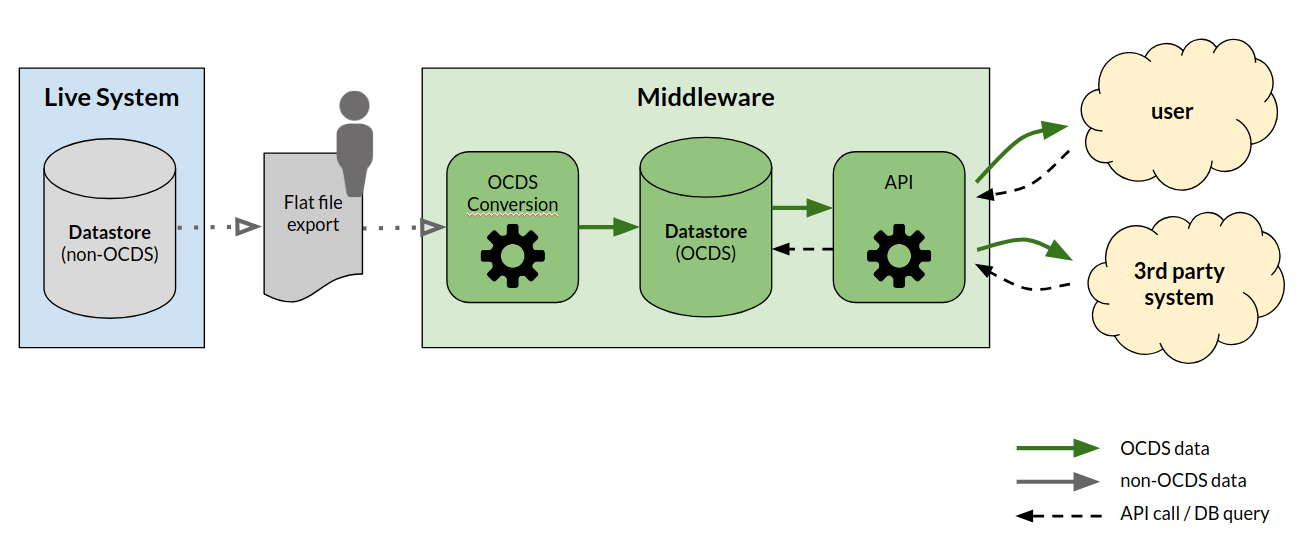
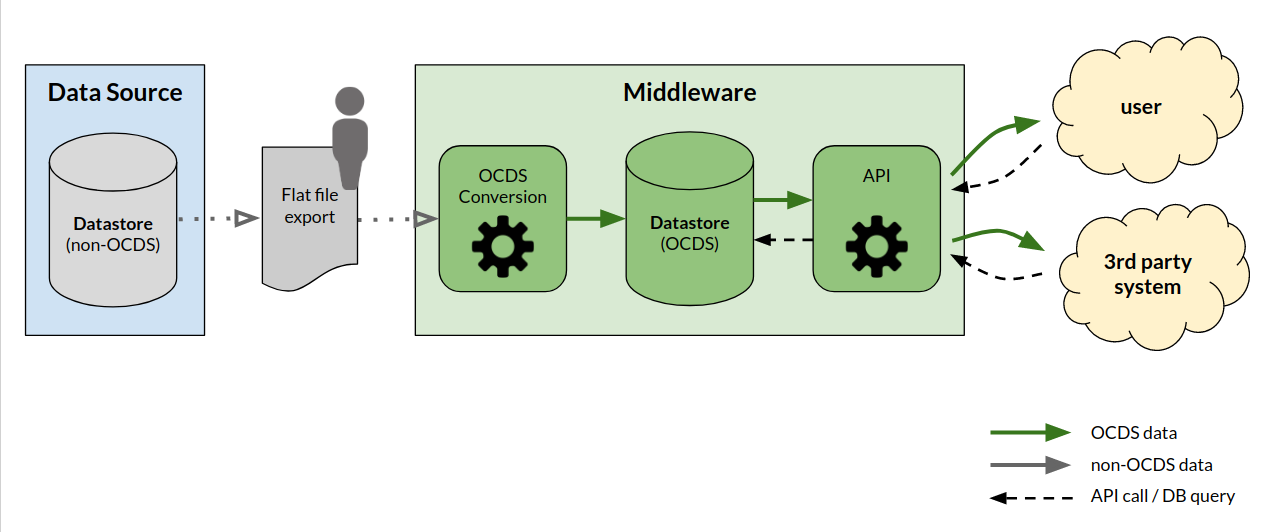
Replacing 'live system' with 'data source' #1139

diff --git a/docs/guidance/build/system_architectures.md b/docs/guidance/build/system_architectures.md
@@ -4,9 +4,9 @@ The publication of OCDS data involves the creation of a conversion process. Like
 
 This process needs an adequate architecture to support it. Its design depends on several factors:
 
-* Whether is possible to extend existing systems, or a new system will be built,
-* The number and nature of the live systems,
-* The technical resources available to the publisher, like storage and processing capabilities. This includes the availability of technical personnel to maintain systems and modules.
+* Whether is possible to extend existing sources, or a new sources will be built,
+* The number and nature of the data sources,
+* The technical resources available to the publisher, like storage and processing capabilities. This includes the availability of technical personnel to maintain sources and modules.
 
 Other considerations that affect the design are:
 
@@ -16,9 +16,9 @@ Other considerations that affect the design are:
 
 This guidance describes some design approaches with their advantages and disadvantages. This is not an exhaustive list, but it can be used to inform the design of the publication system.
 
-## On-demand transformation from live systems
+## On-demand transformation from data sources
 
-In this scenario, each source system converts data in OCDS format on demand. Data is not stored but gets converted each time a user or third party invokes the conversion process. This is the easiest path when a single live system manages all contracting processes. But it involves modifications to the system to add an OCDS conversion module.
+In this scenario, each data source converts data in OCDS format on demand. Data is not stored but gets converted each time a user or third party invokes the conversion process. This is the easiest path when a single source manages all contracting processes. But it involves modifications to the data source to add an OCDS conversion module.
 
 An API performs data transformation on the fly each time it receives a request.
 
@@ -30,14 +30,14 @@ This approach does not need extra storage space. But it might not be possible to
 
 The [easy releases guidance](easy_releases) explains how to achieve a conformant OCDS implementation where it is not possible to provide a full change history.
 
-Bulk downloads can be provided as part of the API. Live queries can stress the live systems if they need to scan large portions of data.
+Bulk downloads can be provided as part of the API. Live queries can stress the data sources if they need to scan large portions of data.
 
 ## Separate OCDS datastore
 
 In the scenarios that follow, a middleware component converts and stores the data in OCDS format. This has some advantages:
 
-* It is possible to merge and centralize data from more than one system in a single datastore.
-* It can relieve live systems from expensive queries.
+* It is possible to merge and centralize data from more than one source in a single datastore.
+* It can relieve data sources from expensive queries.
 * It can enable the generation of the change history for each contracting process.
 
 On the other hand, there is a cost of maintaining a separate datastore. In these scenarios, we assume an API provides access to OCDS data.
@@ -49,33 +49,33 @@ The [releases and records](../../getting_started/releases_and_records) guidance 
 
 ### Pull and convert
 
-In this scenario an automated process pulls data from live systems to the middleware system. The middleware performs the conversion to OCDS and maintains a datastore in OCDS format.
+In this scenario an automated process pulls data from data sources to the middleware system. The middleware performs the conversion to OCDS and maintains a datastore in OCDS format.
 
 ![Pull and Convert](../../_static/png/pullAndConvert.png)
 
-The key benefit of this approach is that the middleware system can store the change history. This is especially good when source systems do not maintain historic data.
+The key benefit of this approach is that the middleware system can store the change history. This is especially good when data sources do not maintain historic data.
 
-This approach might involve some changes to live systems to allow the middleware to pull data. The middleware system merges and centralizes data in a single place.
+This approach might involve some changes to data sources to allow the middleware to pull data. The middleware system merges and centralizes data in a single place.
 
-To add more source systems, the OCDS conversion module needs to be updated to pull data from the new system(s).
+To add more data sources, the OCDS conversion module needs to be updated to pull data from the new source(s).
 
 An important decision in the implementation is the frequency to pull data. If the frequency is low, there is a risk of losing the detail of individual changes.
 
-An alternative to the pull mechanism is to use a push mechanism in each source system. Specific events or changes to the data would trigger a data push to the middleware. This approach can mitigate the risk of losing individual changes. But this might involve bigger modifications to the source system(s).
+An alternative to the pull mechanism is to use a push mechanism in each data source. Specific events or changes to the data would trigger a data push to the middleware. This approach can mitigate the risk of losing individual changes. But this might involve bigger modifications to the data source(s).
 
 European Dynamics developed an e-procurement system with a similar approach for OCDS output. The system was built for the Zambian Public Procurement Agency.
 
 ### Convert and push
 
-This scenario is a combination of the two previous scenarios. Live systems perform the conversion of data to OCDS format. They push converted data to a middleware, which maintains an OCDS format datastore. An API in the middleware system serves the OCDS data.
+This scenario is a combination of the two previous scenarios. Data sources perform the conversion of data to OCDS format. They push converted data to a middleware, which maintains an OCDS format datastore. An API in the middleware system serves the OCDS data.
 
 ![Convert and Push](../../_static/png/convertAndPush.png)
 
-This approach puts the burden of data conversion in live systems. Yet it might be a solution for publishers with a single source system which does not store the change history.
+This approach puts the burden of data conversion in data sources. Yet it might be a solution for publishers with a single data source which does not store the change history.
 
-This approach might also be suitable to combine data from many source systems. Each source system becomes an OCDS publisher. The middleware becomes less complex since it only ingests data in a single format.
+This approach might also be suitable to combine data from many data sources. Each source becomes an OCDS publisher. The middleware becomes less complex since it only ingests data in a single format.
 
-The [OpenProcurement](http://openprocurement.org/en/) system adopted a similar approach. This system was developed in Ukraine and it's the base for the [Prozorro](https://prozorro.gov.ua/en/) platform. Prozorro uses OCDS building blocks as the foundation for live systems data models.
+The [OpenProcurement](http://openprocurement.org/en/) system adopted a similar approach. This system was developed in Ukraine and it's the base for the [Prozorro](https://prozorro.gov.ua/en/) platform. Prozorro uses OCDS building blocks as the foundation for data sources data models.
 
 A variant in this scenario is to store files in a web-accessible file system, as shown below. A periodical invocation of the conversion module updates the file system.
 
@@ -85,13 +85,13 @@ The file system ensures that each OCDS document has a persistent URL for access.
 
 ### Manual import
 
-In this scenario a middleware system sits between live systems and the API.
+In this scenario a middleware system sits between data sources and the API.
 
-Data is manually exported from live systems into files. The files are uploaded to the middleware system, which converts the data to OCDS. The system stores the data in OCDS format.
+Data is manually exported from data sources into files. The files are uploaded to the middleware system, which converts the data to OCDS. The system stores the data in OCDS format.
 
 ![Manual Import](../../_static/png/manualImport.png)
 
-A disadvantage in this approach is the potential of failures. Input files might be corrupted or have unexpected formats due to changes or errors in the live systems.
+A disadvantage in this approach is the potential of failures. Input files might be corrupted or have unexpected formats due to changes or errors in the data sources.
 
 There’s a documented example of this approach in the work Development Gateway did in [Vietnam](https://www.developmentgateway.org/blog/under-hood-open-source-dashboard-procurement-vietnam).
 
